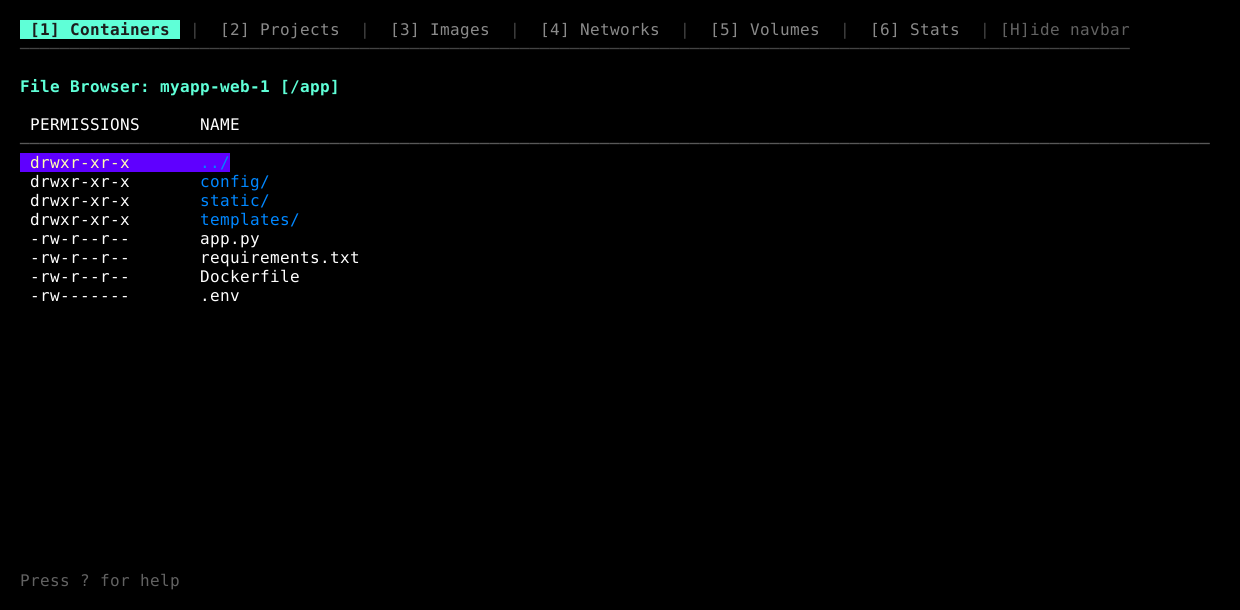
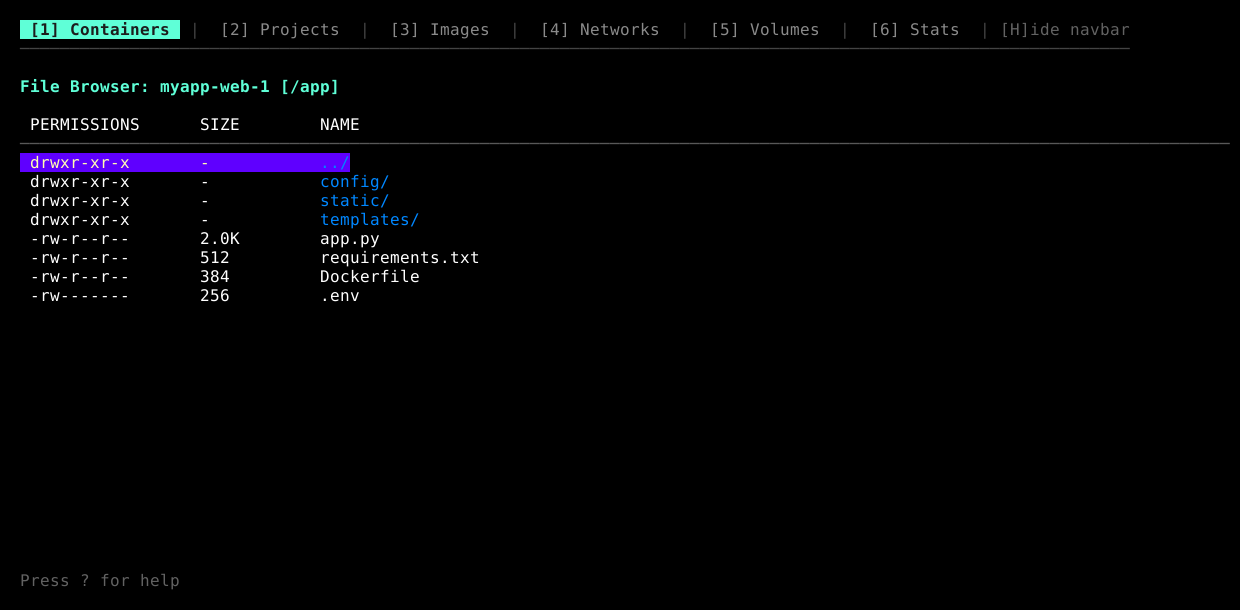
feat: add file size display to File Browser view
Implements file size display in the File Browser view as requested in #230.

Changes:
- Parse file size from `ls -la` output (parts[4] contains size in bytes)
- Add GetSizeString() method to format sizes (B, K, M, G)
- Add SIZE column to File Browser table (between PERMISSIONS and NAME)
- Directories show "-" for size, files show formatted size
- Add comprehensive tests for parsing and formatting

The File Browser now shows:
PERMISSIONS | SIZE | NAME

This makes it easier to identify large files and understand disk usage
within containers.

Closes #230

🤖 Generated with [Claude Code](https://claude.ai/code)

Changed region(s): [[0.1532, 0.2492, 0.3984, 0.4984], [0.2452, 0.1869, 0.3065, 0.218], [0.1532, 0.1869, 0.1839, 0.218]]

diff --git a/internal/models/container_file_test.go b/internal/models/container_file_test.go
@@ -1,0 +1,245 @@
+package models
+
+import (
+	"testing"
+
+	"github.com/stretchr/testify/assert"
+)
+
+func TestParseLsOutput(t *testing.T) {
+	tests := []struct {
+		name     string
+		input    string
+		expected []ContainerFile
+	}{
+		{
+			name: "parse regular files and directories",
+			input: `total 24
+drwxr-xr-x  3 root root 4096 Dec 15 10:30 .
+drwxr-xr-x  1 root root 4096 Dec 14 09:00 ..
+-rw-r--r--  1 root root 1024 Dec 15 10:25 config.json
+drwxr-xr-x  2 root root 4096 Dec 15 10:20 src
+-rwxr-xr-x  1 root root 2048 Dec 15 10:15 app.sh`,
+			expected: []ContainerFile{
+				{
+					Name:        ".",
+					Permissions: "drwxr-xr-x",
+					Mode:        "drwxr-xr-x",
+					Size:        4096,
+					IsDir:       true,
+				},
+				{
+					Name:        "..",
+					Permissions: "drwxr-xr-x",
+					Mode:        "drwxr-xr-x",
+					Size:        4096,
+					IsDir:       true,
+				},
+				{
+					Name:        "config.json",
+					Permissions: "-rw-r--r--",
+					Mode:        "-rw-r--r--",
+					Size:        1024,
+					IsDir:       false,
+				},
+				{
+					Name:        "src",
+					Permissions: "drwxr-xr-x",
+					Mode:        "drwxr-xr-x",
+					Size:        4096,
+					IsDir:       true,
+				},
+				{
+					Name:        "app.sh",
+					Permissions: "-rwxr-xr-x",
+					Mode:        "-rwxr-xr-x",
+					Size:        2048,
+					IsDir:       false,
+				},
+			},
+		},
+		{
+			name: "handle symlinks",
+			input: `total 8
+lrwxrwxrwx  1 root root   10 Dec 15 10:30 link -> /etc/hosts
+-rw-r--r--  1 root root 1024 Dec 15 10:25 file.txt`,
+			expected: []ContainerFile{
+				{
+					Name:        "link",
+					Permissions: "lrwxrwxrwx",
+					Mode:        "lrwxrwxrwx",
+					Size:        10,
+					IsDir:       false,
+					LinkTarget:  "/etc/hosts",
+				},
+				{
+					Name:        "file.txt",
+					Permissions: "-rw-r--r--",
+					Mode:        "-rw-r--r--",
+					Size:        1024,
+					IsDir:       false,
+				},
+			},
+		},
+		{
+			name: "handle filenames with spaces",
+			input: `total 8
+-rw-r--r--  1 root root 1024 Dec 15 10:25 my file.txt
+drwxr-xr-x  2 root root 4096 Dec 15 10:20 my folder`,
+			expected: []ContainerFile{
+				{
+					Name:        "my file.txt",
+					Permissions: "-rw-r--r--",
+					Mode:        "-rw-r--r--",
+					Size:        1024,
+					IsDir:       false,
+				},
+				{
+					Name:        "my folder",
+					Permissions: "drwxr-xr-x",
+					Mode:        "drwxr-xr-x",
+					Size:        4096,
+					IsDir:       true,
+				},
+			},
+		},
+		{
+			name:     "handle empty output",
+			input:    "",
+			expected: []ContainerFile{},
+		},
+		{
+			name:     "skip total line",
+			input:    "total 0",
+			expected: []ContainerFile{},
+		},
+	}
+
+	for _, tt := range tests {
+		t.Run(tt.name, func(t *testing.T) {
+			result := ParseLsOutput(tt.input)
+			assert.Equal(t, tt.expected, result)
+		})
+	}
+}
+
+func TestGetSizeString(t *testing.T) {
+	tests := []struct {
+		name     string
+		file     ContainerFile
+		expected string
+	}{
+		{
+			name: "directory shows dash",
+			file: ContainerFile{
+				IsDir: true,
+				Size:  4096,
+			},
+			expected: "-",
+		},
+		{
+			name: "bytes",
+			file: ContainerFile{
+				IsDir: false,
+				Size:  512,
+			},
+			expected: "512",
+		},
+		{
+			name: "kilobytes",
+			file: ContainerFile{
+				IsDir: false,
+				Size:  1536, // 1.5K
+			},
+			expected: "1.5K",
+		},
+		{
+			name: "megabytes",
+			file: ContainerFile{
+				IsDir: false,
+				Size:  1572864, // 1.5M
+			},
+			expected: "1.5M",
+		},
+		{
+			name: "gigabytes",
+			file: ContainerFile{
+				IsDir: false,
+				Size:  1610612736, // 1.5G
+			},
+			expected: "1.5G",
+		},
+		{
+			name: "exactly 1K",
+			file: ContainerFile{
+				IsDir: false,
+				Size:  1024,
+			},
+			expected: "1.0K",
+		},
+		{
+			name: "exactly 1M",
+			file: ContainerFile{
+				IsDir: false,
+				Size:  1048576,
+			},
+			expected: "1.0M",
+		},
+		{
+			name: "zero bytes",
+			file: ContainerFile{
+				IsDir: false,
+				Size:  0,
+			},
+			expected: "0",
+		},
+	}
+
+	for _, tt := range tests {
+		t.Run(tt.name, func(t *testing.T) {
+			result := tt.file.GetSizeString()
+			assert.Equal(t, tt.expected, result)
+		})
+	}
+}
+
+func TestGetDisplayName(t *testing.T) {
+	tests := []struct {
+		name     string
+		file     ContainerFile
+		expected string
+	}{
+		{
+			name: "regular file",
+			file: ContainerFile{
+				Name:  "file.txt",
+				IsDir: false,
+			},
+			expected: "file.txt",
+		},
+		{
+			name: "directory",
+			file: ContainerFile{
+				Name:  "folder",
+				IsDir: true,
+			},
+			expected: "folder/",
+		},
+		{
+			name: "symlink",
+			file: ContainerFile{
+				Name:       "link",
+				IsDir:      false,
+				LinkTarget: "/etc/hosts",
+			},
+			expected: "link -> /etc/hosts",
+		},
+	}
+
+	for _, tt := range tests {
+		t.Run(tt.name, func(t *testing.T) {
+			result := tt.file.GetDisplayName()
+			assert.Equal(t, tt.expected, result)
+		})
+	}
+}

diff --git a/internal/models/container_file.go b/internal/models/container_file.go
@@ -1,6 +1,7 @@
 package models
 
 import (
+	"strconv"
 	"strings"
 	"time"
 )
@@ -18,7 +19,7 @@ type ContainerFile struct {
 
 // ParseLsOutput parses the output of ls -la command
 func ParseLsOutput(output string) []ContainerFile {
-	var files []ContainerFile
+	files := []ContainerFile{}
 	lines := strings.Split(strings.TrimSpace(output), "\n")
 
 	for _, line := range lines {
@@ -40,9 +41,10 @@ func ParseLsOutput(output string) []ContainerFile {
 			IsDir:       strings.HasPrefix(parts[0], "d"),
 		}
 
-		// Parse size
-		// TODO: Convert size string to int64 if needed
-		// For now, the size is kept as string in SizeStr field
+		// Parse size (parts[4] contains the size in bytes)
+		if size, err := strconv.ParseInt(parts[4], 10, 64); err == nil {
+			file.Size = size
+		}
 
 		// Get filename (handle spaces in filename)
 		// Everything from parts[8] onwards is the filename
@@ -72,4 +74,25 @@ func (f ContainerFile) GetDisplayName() string {
 		name += " -> " + f.LinkTarget
 	}
 	return name
+}
+
+// GetSizeString returns a human-readable size string
+func (f ContainerFile) GetSizeString() string {
+	if f.IsDir {
+		return "-"
+	}
+
+	size := f.Size
+	if size < 1024 {
+		return strconv.FormatInt(size, 10)
+	}
+
+	const unit = 1024
+	if size < unit*unit {
+		return strconv.FormatFloat(float64(size)/float64(unit), 'f', 1, 64) + "K"
+	}
+	if size < unit*unit*unit {
+		return strconv.FormatFloat(float64(size)/float64(unit*unit), 'f', 1, 64) + "M"
+	}
+	return strconv.FormatFloat(float64(size)/float64(unit*unit*unit), 'f', 1, 64) + "G"
 }

diff --git a/internal/ui/view_file_browser.go b/internal/ui/view_file_browser.go
@@ -79,7 +79,8 @@ func (m *FileBrowserViewModel) render(model *Model, availableHeight int) string 
 	// Create table
 	columns := []table.Column{
 		{Title: "PERMISSIONS", Width: 15},
-		{Title: "NAME", Width: model.width - 20},
+		{Title: "SIZE", Width: 10},
+		{Title: "NAME", Width: model.width - 30},
 	}
 
 	// Define styles for different file types
@@ -97,7 +98,7 @@ func (m *FileBrowserViewModel) render(model *Model, availableHeight int) string 
 			name = linkStyle.Render(name)
 		}
 
-		rows = append(rows, table.Row{file.Permissions, name})
+		rows = append(rows, table.Row{file.Permissions, file.GetSizeString(), name})
 	}
 
 	return RenderTable(columns, rows, availableHeight, m.selectedFile)

diff --git a/internal/ui/view_test.go b/internal/ui/view_test.go
@@ -477,6 +477,7 @@ func TestFileBrowserTableView(t *testing.T) {
 
 		// Check for table headers
 		assert.Contains(t, view, "PERMISSIONS")
+		assert.Contains(t, view, "SIZE")
 		assert.Contains(t, view, "NAME")
 
 		// Check for file data
@@ -489,6 +490,7 @@ func TestFileBrowserTableView(t *testing.T) {
 
 		// Check for table headers
 		assert.Contains(t, view, "PERMISSIONS")
+		assert.Contains(t, view, "SIZE")
 		assert.Contains(t, view, "NAME")
 
 		// Check for header separator (bubbles/table uses simpler format)

diff --git a/internal/ui/view_file_browser_test.go b/internal/ui/view_file_browser_test.go
@@ -117,6 +117,7 @@ func TestFileBrowserViewModel_Rendering(t *testing.T) {
 			height: 20,
 			expected: []string{
 				"PERMISSIONS",
+				"SIZE",
 				"NAME",
 				"drwxr-xr-x",
 				"app/",
